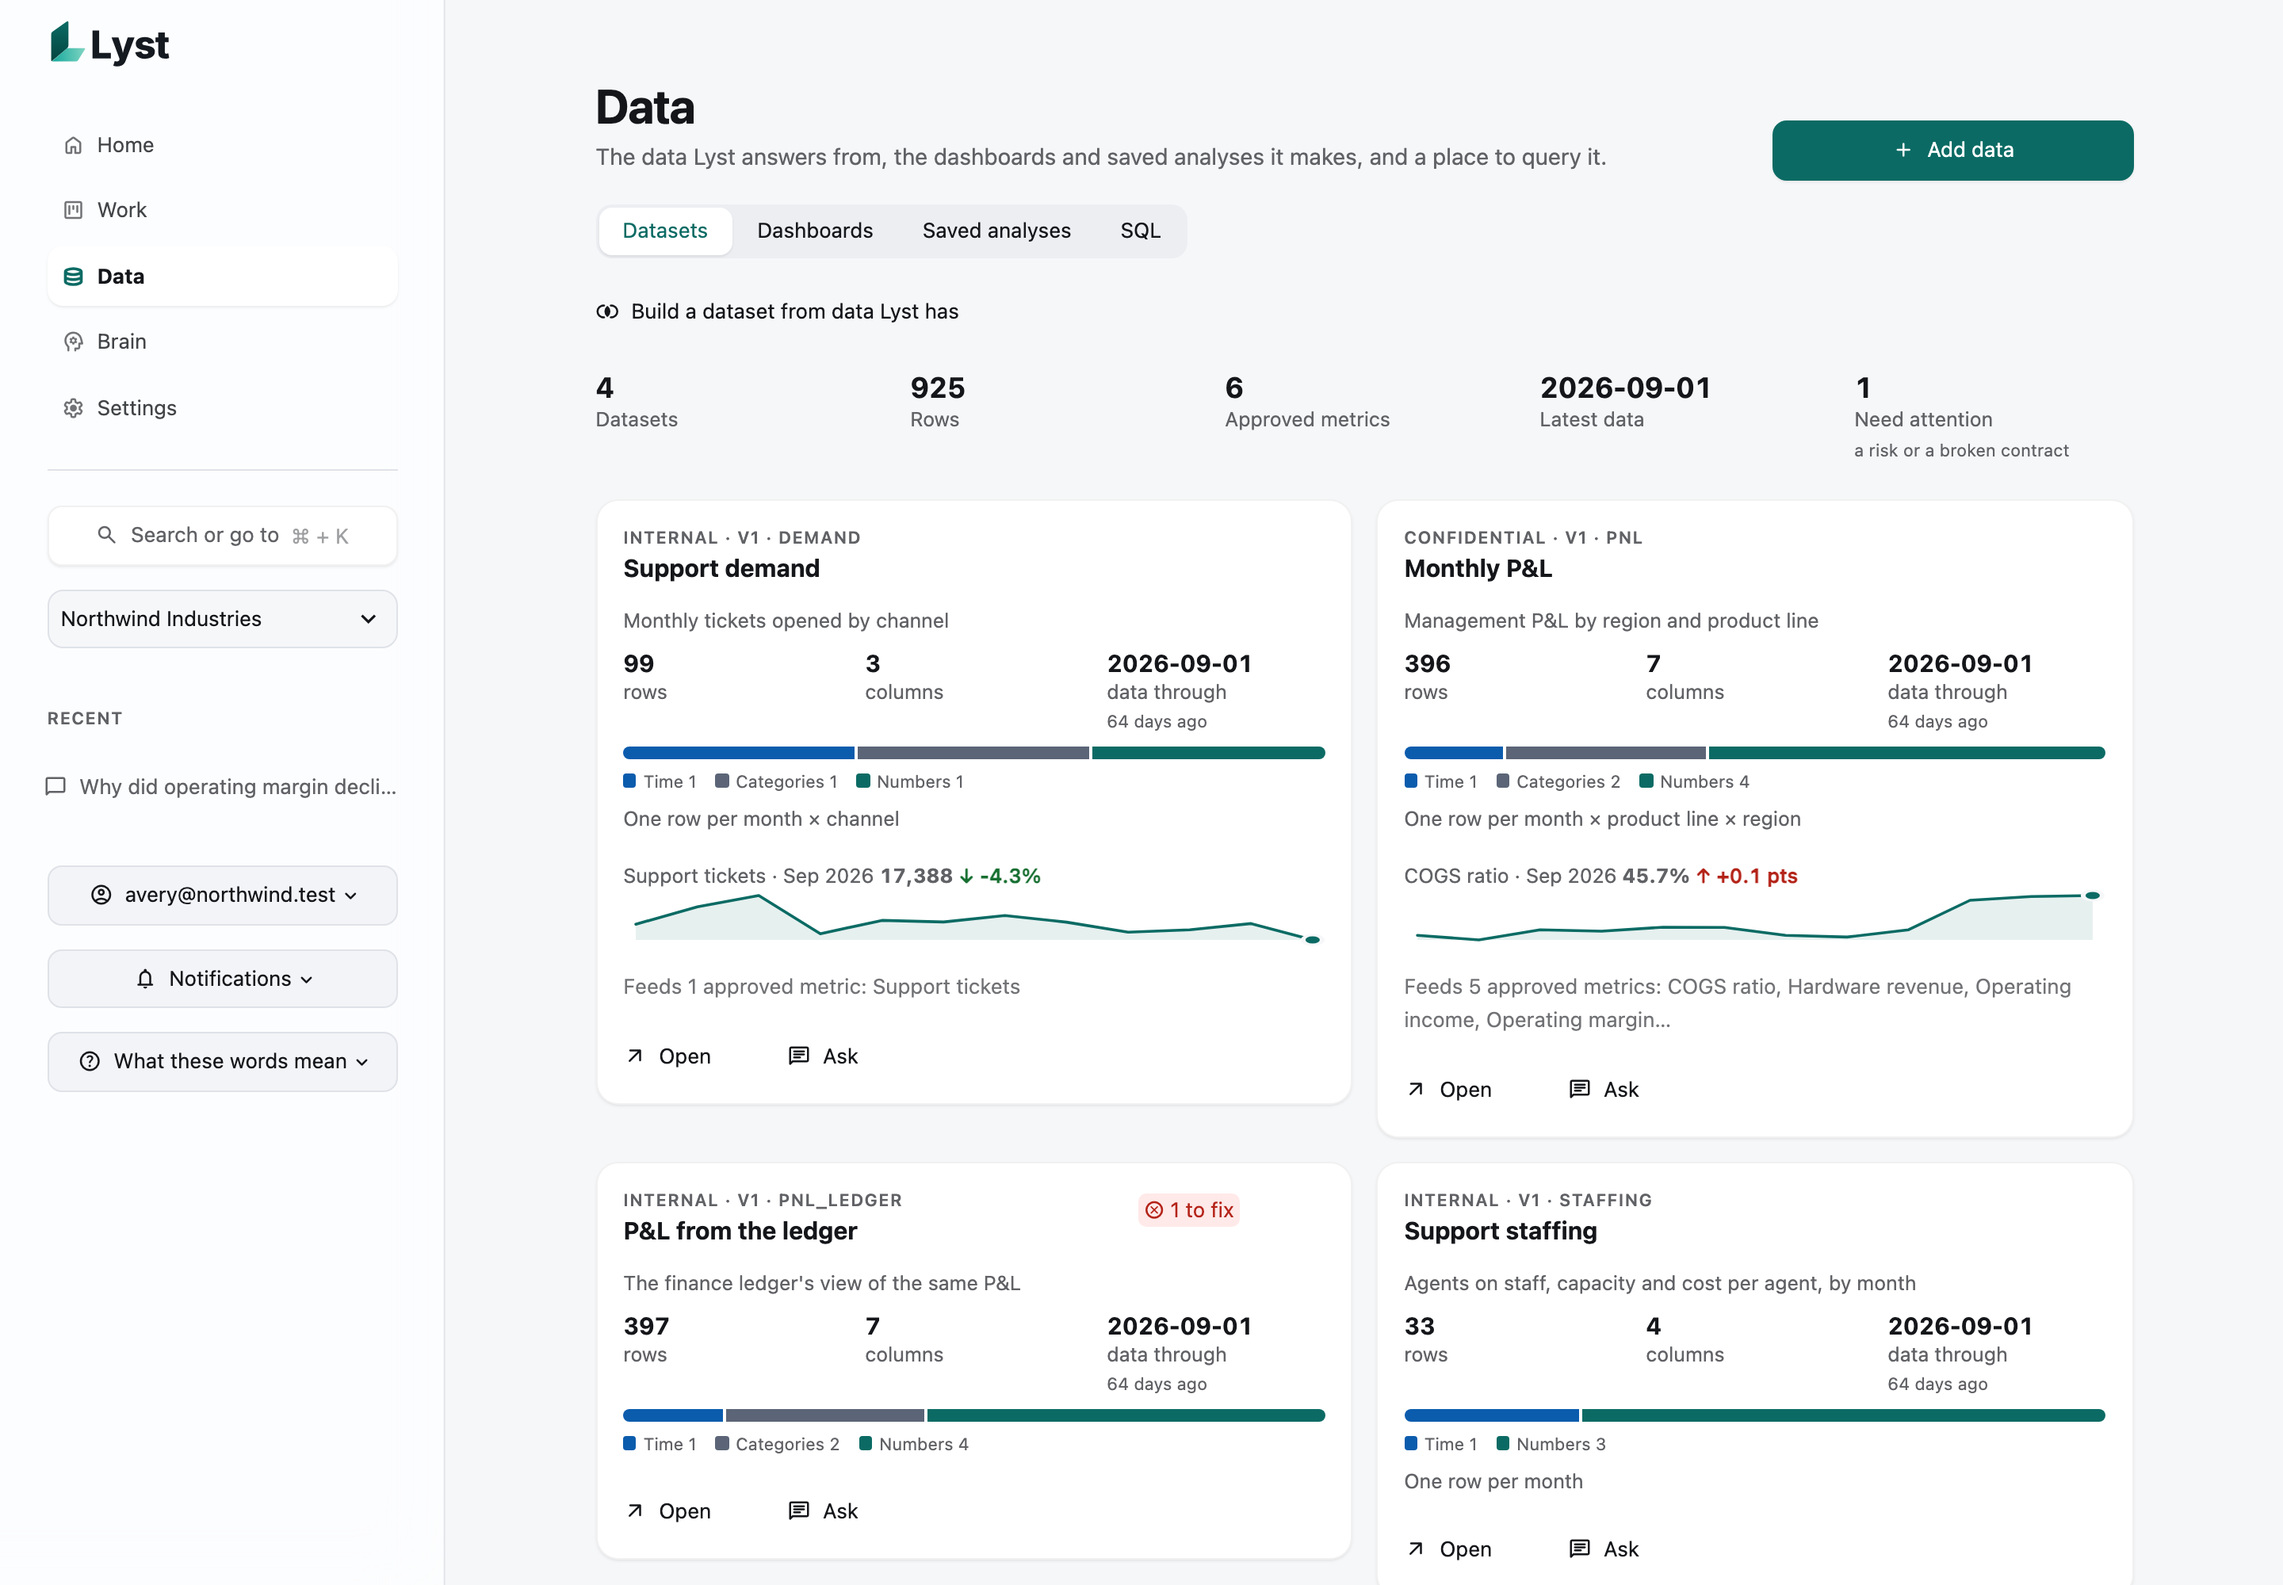
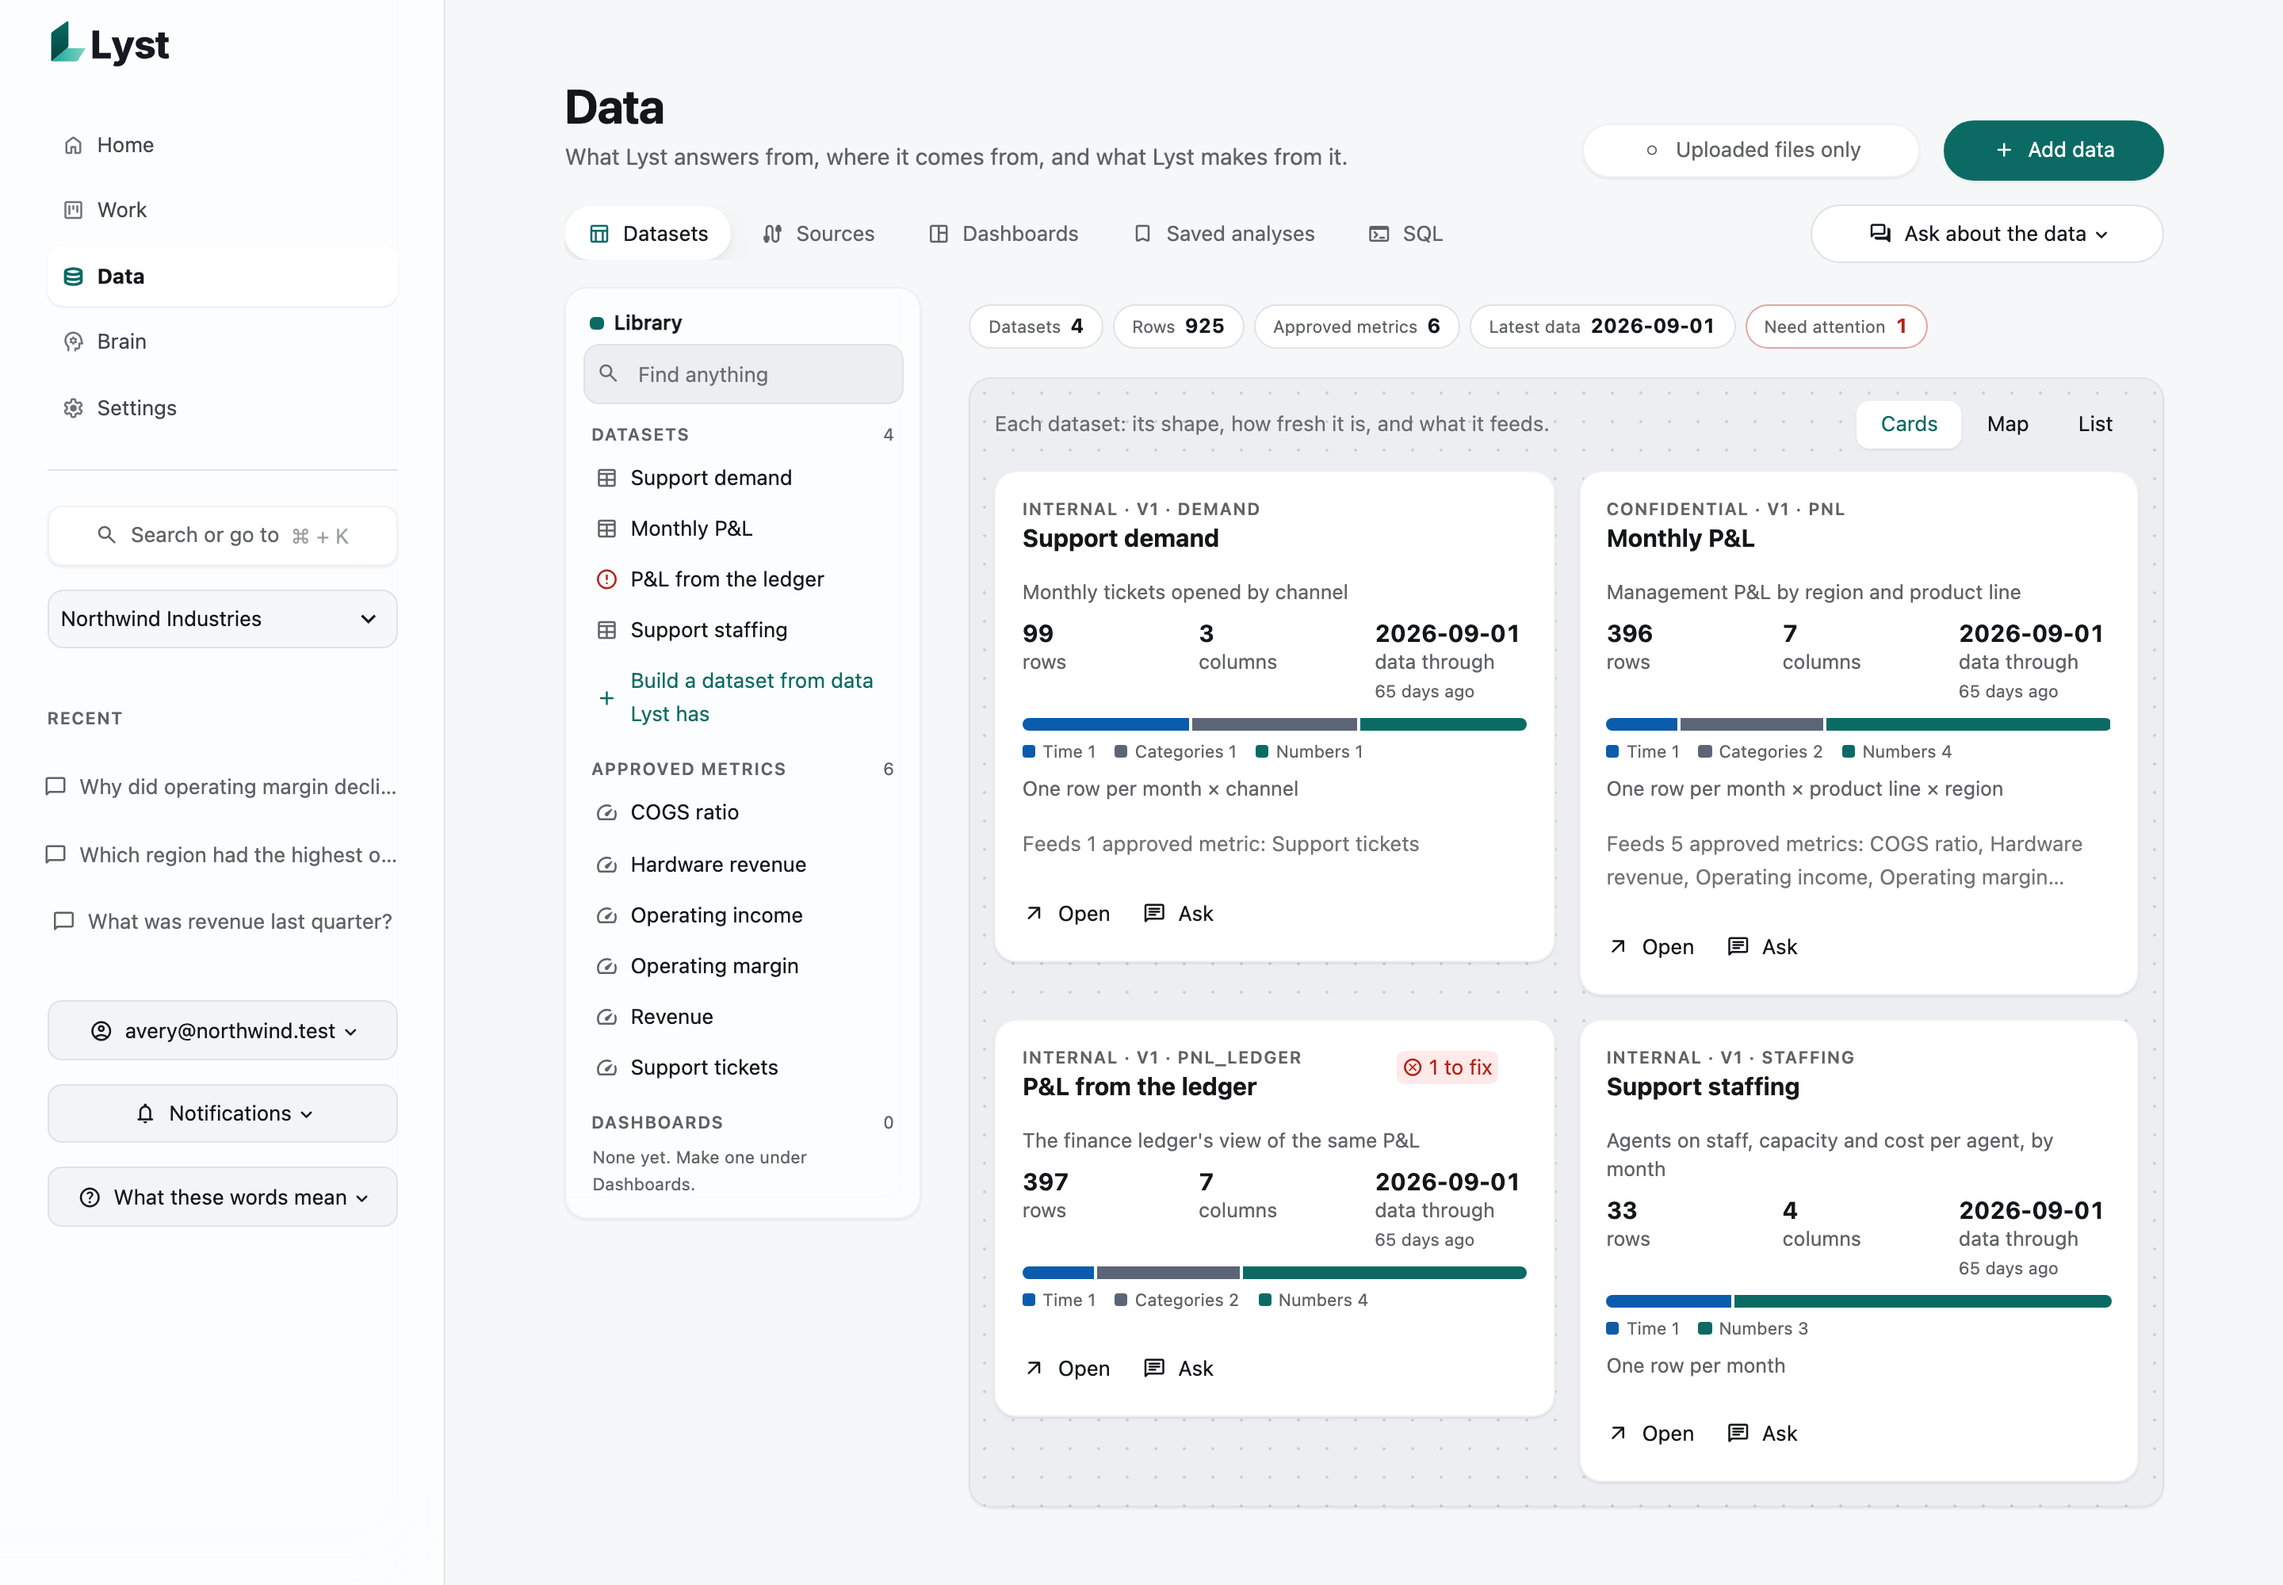
README: Brain graph and graph runs (#115), profiles and lyst doctor, export and import (#113), backups and memory review screens (#114), restyled Data (#116)
Removes the quick-start paragraphs that #112 duplicated, adds a graph section with
its stated limits from docs/GRAPH_RUNS.md and two screenshots of a real graph run on
the demo, and retakes Data.

diff --git a/README.md b/README.md
@@ -49,14 +49,6 @@ Ctrl-C stops it. From another terminal: `lyst status`, `lyst stop`.
 `uv sync` installs Lyst into the project's `.venv`, so run commands through `uv run` from the checkout (a bare
 `lyst` is "command not found" unless you first `source .venv/bin/activate`). From any terminal in the checkout:
 
-It is safe to run again. If Lyst is already running it opens that one instead of starting a second, if a default port
-is busy it picks the next free one and says so, and if another program has the data open it names that program's PID
-instead of failing with a traceback. From another terminal in the same folder, `uv run lyst status` says what is
-running and `uv run lyst stop` stops it (only the processes `lyst start` recorded). `uv run lyst start --check` checks
-Python, the data folder, the encryption key, the database and the ports before you start.
-
-`uv sync` installs `lyst` inside the project's `.venv`, not on your PATH, so a bare `lyst start` says "command not
-found". Use `uv run lyst ...`, or run `source .venv/bin/activate` once in a terminal to type plain `lyst ...` there.
 ```bash
 uv run lyst status          # is Lyst running here, at which address, under which PIDs (--json for scripts)
 uv run lyst stop            # stop the Lyst that `lyst start` launched; never touches processes it didn't record
@@ -90,8 +82,8 @@ and a "What these words mean" glossary.
 |---|---|
 | **Home** | A workspace, not a dashboard: the composer (with **Speak**), a Get started card that follows the workspace's real set-up state, suggested questions, **Your work** (a shelf of what Lyst has made, each with a preview drawn from its own content) and the conversations to pick up |
 | **Work** | A command center: a live status strip, then what needs you (approvals), what Lyst is doing and finished as a day-by-day timeline or a board, and what runs on its own: watched metrics, scheduled questions and what Lyst noticed. Each task's steps show as a timeline from the engine |
-| **Data** | Every dataset is a card with its size, freshness, the shape of its columns and the live trend of the measure it feeds; open one for a profile of every column. Sources, dashboards, saved analyses, and a SQL workspace with the schema beside the editor, results kept while you explore, a first chart drawn for you, and a sandboxed **Python** tab. **Add data** uploads a file, connects a source, or proposes connections from an API description |
-| **Brain** | What Lyst knows about the business: every approved metric with its latest value, whether the change is good or bad, its twelve-month trend, and a lineage view from source file to dataset to definition; business terms, documents it can cite, what it remembers and how far to trust it, and **Specializations**: a searchable catalog of the 136 kinds of analyst work with each one's honest maturity |
+| **Data** | A library rail of datasets, approved metrics and dashboards beside the workspace; tabs for Datasets (as cards, a map of shared columns, or a list), Sources, Dashboards, Saved analyses and SQL (with a sandboxed **Python** tab), plus **Ask about the data**. Every dataset card shows its size, freshness, the shape of its columns and what it feeds. **Add data** uploads a file, connects a source, or proposes connections from an API description |
+| **Brain** | What Lyst knows about the business, opening on its **Graph**: a map of everything it knows and how it links, plus graph runs. Then Definitions (each approved metric and term as what it means and how it is built, or a map from data to metrics), Documents it can cite, Memory (with memories waiting for review), and **Specializations**: a searchable catalog of the 136 kinds of analyst work with each one's honest maturity |
 | **Settings** | A native two-pane screen with grouped settings: Models (level and costs), Connections (keys and sources), Workspace (members, autonomy, data policy, webhooks, audit trail), Voice, and Advanced (skills, capabilities, evaluation runs, and how working ahead went) |
 
 <p align="center">
@@ -125,6 +117,35 @@ from data to approved metrics.
   <tr>
     <td width="50%"><img src="docs/images/data-map.png" alt="Data, Map: four datasets on a ring, linked by shared columns such as month, product line and region"><br><b>Data map</b>: datasets linked by the columns they share</td>
     <td width="50%"><img src="docs/images/brain-map.png" alt="Brain, Map: Support demand and Monthly P&L linked to the six approved metrics and how each is built"><br><b>Brain map</b>: from data to approved metrics</td>
+  </tr>
+</table>
+
+### Brain › Graph and graph runs
+
+The Brain opens on its graph. **Map** shows every dataset, approved metric, business term, document, memory, business
+entity, analysis and artifact, plus graph runs and the rules they learned. A link is a relation Lyst recorded or a
+literal mention, never an inferred one. Search, zoom, pan, drag, hide a kind from the legend, or use **List** from
+the keyboard; clicking a node shows its backlinks and opens it where it lives.
+
+**Runs** takes a goal written one job per line and runs it as a graph: a Planner splits the jobs into branches (they run
+at the same time unless one names another's answer), a Builder does each branch as an ordinary Lyst analysis, a
+Checker grades the stored result against requirements a program can fail, a Gate routes it to pass, repair, escalate
+or stop, and a code Merge orders the answers. Only a failing branch goes back for repair, with the reason and evidence;
+three failed repairs escalate to a person. Work is laned by blast radius: reading and analysing passes on its checks,
+defining or sharing needs a clean record or a person, and anything that deletes, sends, pays, deploys or was named as
+needing approval never starts without a person's approval. Repeated failures become rules the Planner reads next time,
+and **Harness** shows them. Each run leaves its state, a check table and the graph as it ran.
+
+Limits, stated plainly: builders are Lyst analyses, so a graph run cannot do anything a person's own question could
+not, and it does not write code, deploy or move money; the Planner splits the text you write rather than decomposing a
+goal with a model; the "independent path" check re-runs the recorded queries rather than deriving the answer a second
+way; and the morning brief and weekly review are produced on request, not yet on a schedule
+([docs/GRAPH_RUNS.md](docs/GRAPH_RUNS.md)).
+
+<table>
+  <tr>
+    <td width="50%"><img src="docs/images/brain-graph.png" alt="Brain, Graph, Map: metrics, datasets, memories, analyses and a graph run linked where Lyst recorded a relation, with a legend and a side panel"><br><b>Brain › Graph</b>: what Lyst knows, and how it links</td>
+    <td width="50%"><img src="docs/images/graph-run.png" alt="A graph run: Planner, three Builders, three Checkers, Gate and Router, Merge and Done, all branches passed"><br><b>A graph run</b>: three branches built, checked and merged</td>
   </tr>
 </table>
 
@@ -428,12 +449,20 @@ where they point, with Mark all read and "What to tell me about".
 * **Remembers carefully.** Each memory records the datasets and metric versions it was learned from, and is
   flagged as possibly out of date, with the reason, when a source has a newer version or is gone, a definition
   changed, or it is older than a year. Recall ranks memories that still apply first, an answer that draws on a
-  stale one says it "may no longer apply", and admins get a review list. Retention removes only old agent-observed
-  memory, never approved or person-validated knowledge.
+  stale one says it "may no longer apply", and admins review them in Brain › Memory. Retention removes only old
+  agent-observed memory, never approved or person-validated knowledge.
 * **Recovers from the worst day.** Backups are atomic (a full disk partway through leaves no half backup) and can
   run on a schedule. Every new backup gets a restore drill that checks each checksum, refuses a backup containing
   key material, and opens every database with the current master key. Lyst reports the measured recovery point and
-  recovery time against your targets ([docs/OPERATIONS.md](docs/OPERATIONS.md)).
+  recovery time against your targets, shown with **Back up now** in Settings › Advanced › Backups and recovery
+  ([docs/OPERATIONS.md](docs/OPERATIONS.md)).
+* **Fits how you deploy.** `LYST_PROFILE` picks `local` (the default), `offline` (a local model only, no catalog
+  refresh or telemetry, webhooks to private addresses only), `server` (all interfaces, with OIDC and TLS expected
+  at the proxy) or `portable` (a self-contained data folder that moves as a workspace pack). `lyst doctor` checks
+  the installation end to end (packages, disk, encryption, migrations, backups, the credential audit chain,
+  network exposure, the sandbox, the model, stalled work, and the profile's own promises) and gives the fix for
+  each, with no key, token, path or data in its report. An air-gapped Compose stack is in `deploy/offline/`
+  (written, not yet run).
 * **Runs work durably.** Leases, checkpoints and resume after a crash; parallel steps; pause, cancel, retry and
   budgets; approval-gated schedules and monitors with an inbox and webhooks.
 * **Prepares recurring work before it runs.** Shortly before a scheduled review, Lyst checks as the schedule's
@@ -601,6 +630,9 @@ The threat model, autonomy levels and residual risks are in [docs/SECURITY.md](d
 | `lyst token EMAIL [--owner-of WS]` | Issue an API token, optionally creating a workspace with that user as owner |
 | `lyst init [--recovery]` | Initialise encryption, or restore a saved master key |
 | `lyst rotate-master-key` | Re-key every database and re-wrap every secret (engine stopped) |
+| `lyst doctor [--json] [--no-network]` | Check the whole installation and say how to fix each problem |
+| `lyst export WS FILE [--history]` | Seal a workspace into a passphrase-protected pack |
+| `lyst import FILE [--as ID] [--activate] [--check]` | Check a pack and bring it in as a new workspace, schedules paused |
 | `lyst backup DEST` | Consistent, encrypted backup, also while the engine is running |
 | `lyst restore SRC` | Verified restore into `LYST_HOME` (engine stopped) |
 | `lyst prune` | Apply retention to events, calls, query history and notifications |
@@ -636,7 +668,7 @@ To run on a server, see [docs/DEPLOYMENT.md](docs/DEPLOYMENT.md) (Docker Compose
 [Architecture](docs/ARCHITECTURE.md) · [Data platform](docs/PLATFORM.md) · [Capability matrix](docs/CAPABILITY_MATRIX.md) ·
 [Models](docs/MODELS.md) · [Security](docs/SECURITY.md) · [Connectors](docs/CONNECTORS.md) ·
 [Skills](docs/SKILLS.md) · [DuckDB design](docs/DUCKDB.md) · [Deployment](docs/DEPLOYMENT.md) ·
-[Performance](docs/PERFORMANCE.md) · [Operations](docs/OPERATIONS.md) · [Anticipation](docs/ANTICIPATION.md) · [Adaptability](docs/ADAPTABILITY.md) · [Extensibility](docs/EXTENSIBILITY.md) · [Specializations](docs/SPECIALIZATIONS.md) · [Specializations audit](docs/SPECIALIZATIONS_AUDIT.md) · [Voice](docs/VOICE.md) · [UX strategy](docs/UX_STRATEGY.md) · [Product excellence](docs/PRODUCT_EXCELLENCE.md) ·
+[Performance](docs/PERFORMANCE.md) · [Operations](docs/OPERATIONS.md) · [Anticipation](docs/ANTICIPATION.md) · [Adaptability](docs/ADAPTABILITY.md) · [Extensibility](docs/EXTENSIBILITY.md) · [Specializations](docs/SPECIALIZATIONS.md) · [Specializations audit](docs/SPECIALIZATIONS_AUDIT.md) · [Graph runs](docs/GRAPH_RUNS.md) · [Voice](docs/VOICE.md) · [UX strategy](docs/UX_STRATEGY.md) · [Product excellence](docs/PRODUCT_EXCELLENCE.md) ·
 [Engineering excellence](docs/ENGINEERING_EXCELLENCE.md) · [Known gaps](docs/GAPS.md) ·
 [Roadmap](docs/ROADMAP.md) · [Acumane audit](docs/ACUMANE_AUDIT.md) · [SBOM](docs/SBOM.md) ·
 [Decisions](docs/decisions/)
